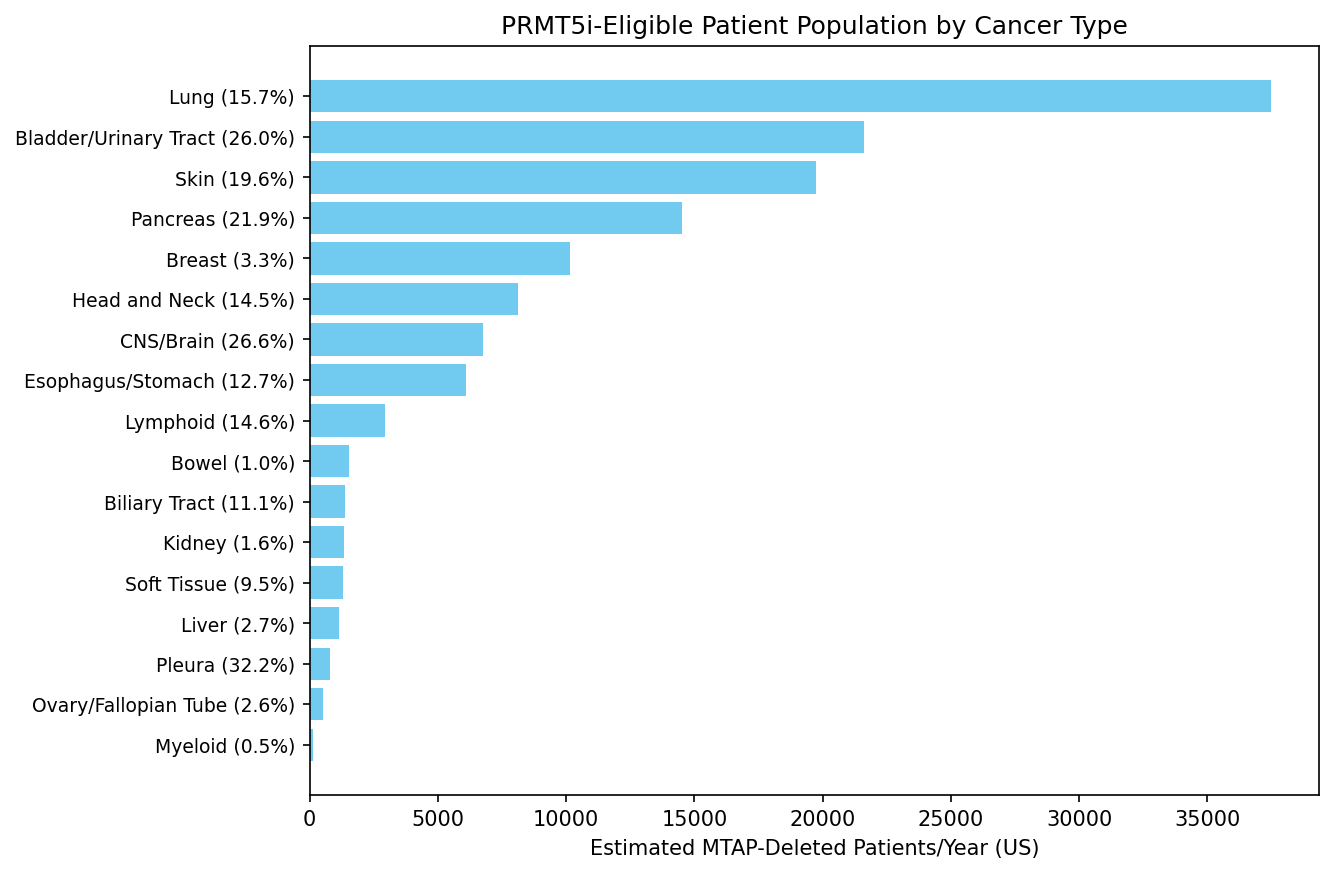
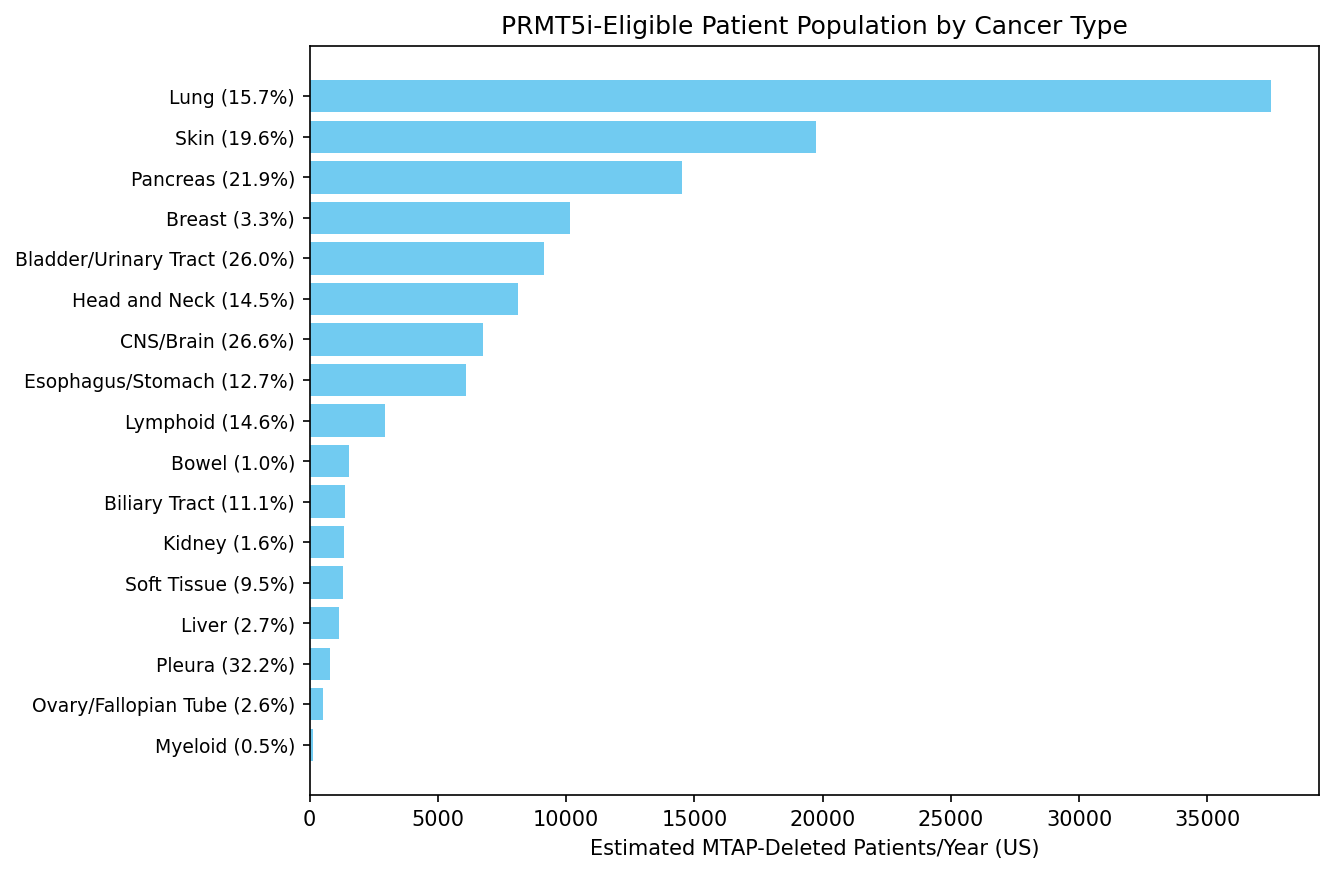
Fix Bladder population estimate: use C-CAT 11% instead of TCGA 26%
TCGA-CCAT discordance for Bladder/Urinary Tract was 15pp (TCGA=26%,
C-CAT=11%). C-CAT (N=51,828) is more reliable for prevalence estimates.
Added automatic C-CAT override when discrepancy exceeds 5pp. Bladder
eligible patients corrected from ~21,629 to 9,150/year (~2.4x reduction).

diff --git a/src/pancancer_mtap_prmt5_atlas/05_tcga_population.py b/src/pancancer_mtap_prmt5_atlas/05_tcga_population.py
@@ -112,7 +112,18 @@ def main() -> None:
         any_loss = (n_homdel + n_hetloss) / n_total * 100 if n_total > 0 else 0
 
         incidence = US_INCIDENCE.get(lineage, 0)
-        eligible = int(incidence * homdel_pct / 100)
+
+        # Use C-CAT frequency for population estimates when TCGA is discrepant
+        # (>5pp difference). C-CAT (N=51,828) is more reliable for prevalence.
+        pop_freq = homdel_pct
+        pop_freq_source = "TCGA"
+        if lineage in CCAT_FREQUENCIES:
+            ccat_pct = CCAT_FREQUENCIES[lineage]
+            if abs(homdel_pct - ccat_pct) > 5:
+                pop_freq = ccat_pct
+                pop_freq_source = "C-CAT"
+
+        eligible = int(incidence * pop_freq / 100)
 
         lineage_stats.append({
             "cancer_type": lineage,
@@ -120,6 +131,8 @@ def main() -> None:
             "n_profiled": int(n_total),
             "n_homdel": int(n_homdel),
             "homdel_pct": round(homdel_pct, 1),
+            "pop_freq_pct": round(pop_freq, 1),
+            "pop_freq_source": pop_freq_source,
             "any_loss_pct": round(any_loss, 1),
             "us_incidence": incidence,
             "eligible_patients_year": eligible,
@@ -130,7 +143,9 @@ def main() -> None:
     pop_df.to_csv(OUTPUT_DIR / "patient_population_estimates.csv", index=False)
     print(f"\nPatient population estimates ({len(pop_df)} cancer types):")
     for _, row in pop_df.iterrows():
+        src = f" [via {row['pop_freq_source']}]" if row.get("pop_freq_source") == "C-CAT" else ""
         print(f"  {row['cancer_type']}: {row['homdel_pct']:.1f}% homdel, "
+              f"{row['pop_freq_pct']:.1f}% pop freq{src}, "
               f"{row['eligible_patients_year']:,} eligible/year")
 
     # === C-CAT cross-validation ===
